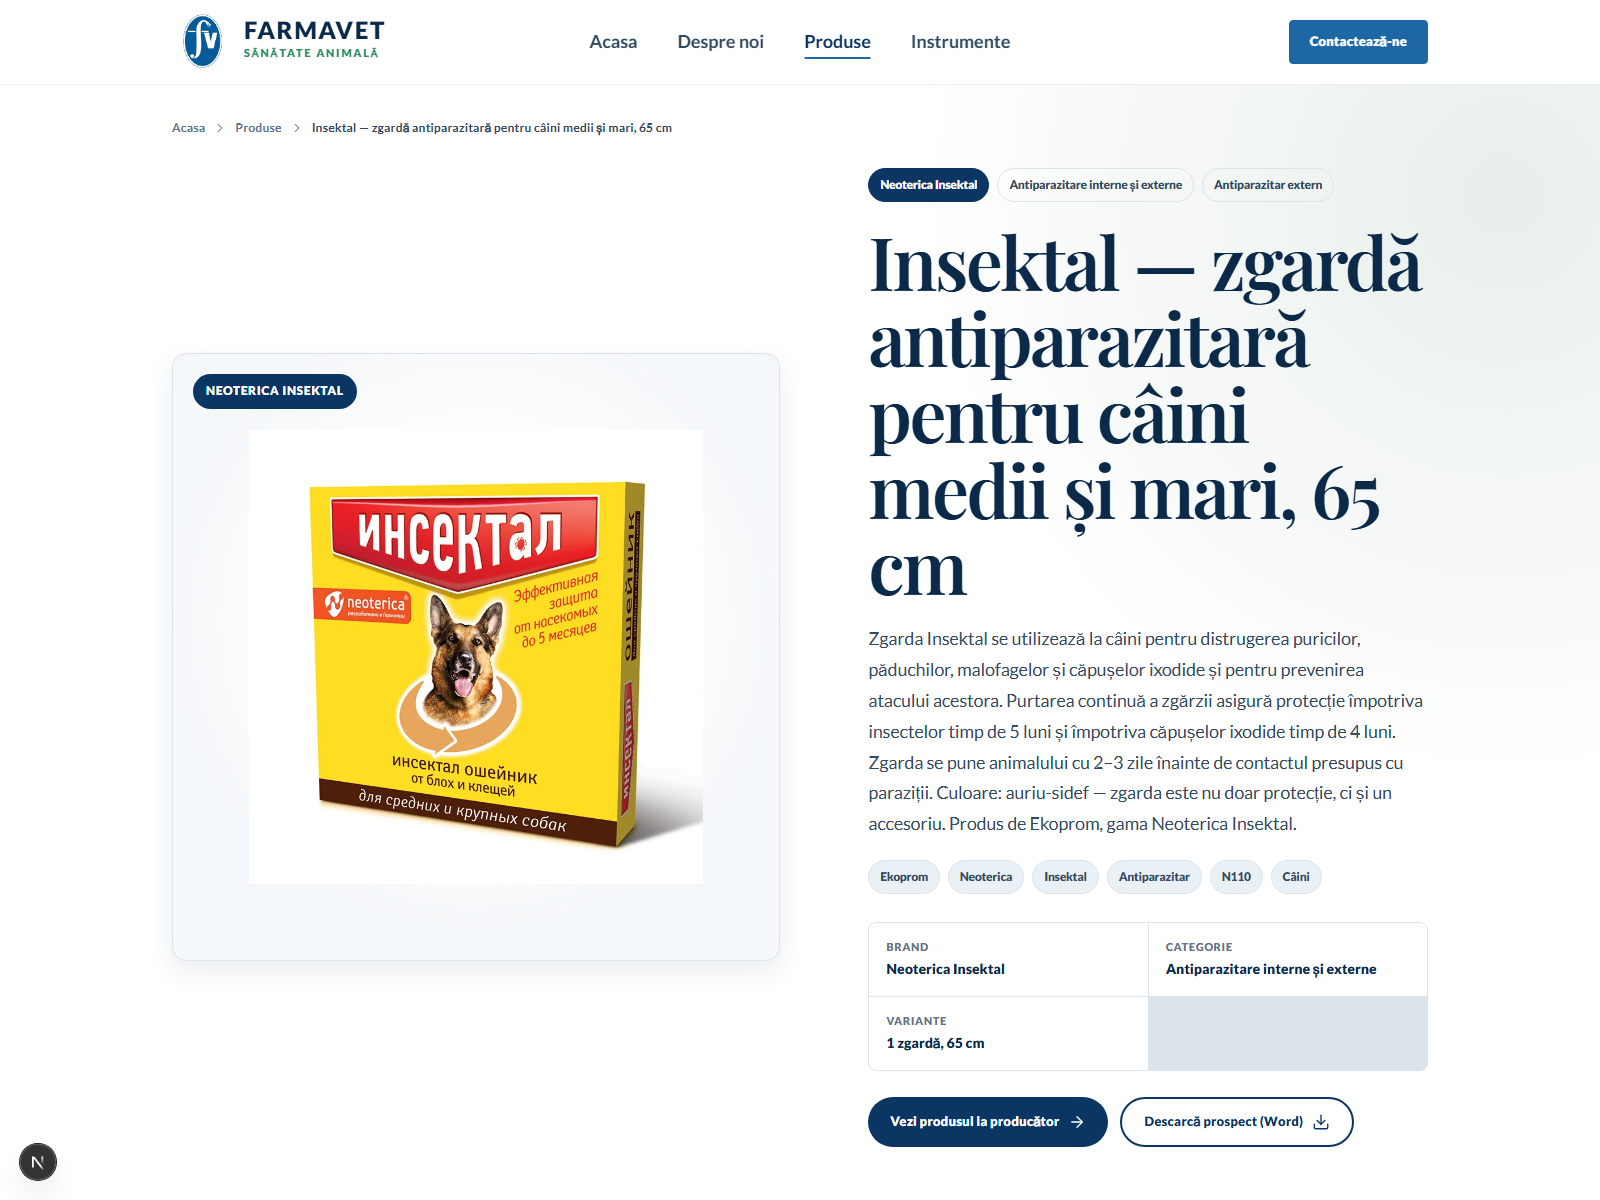
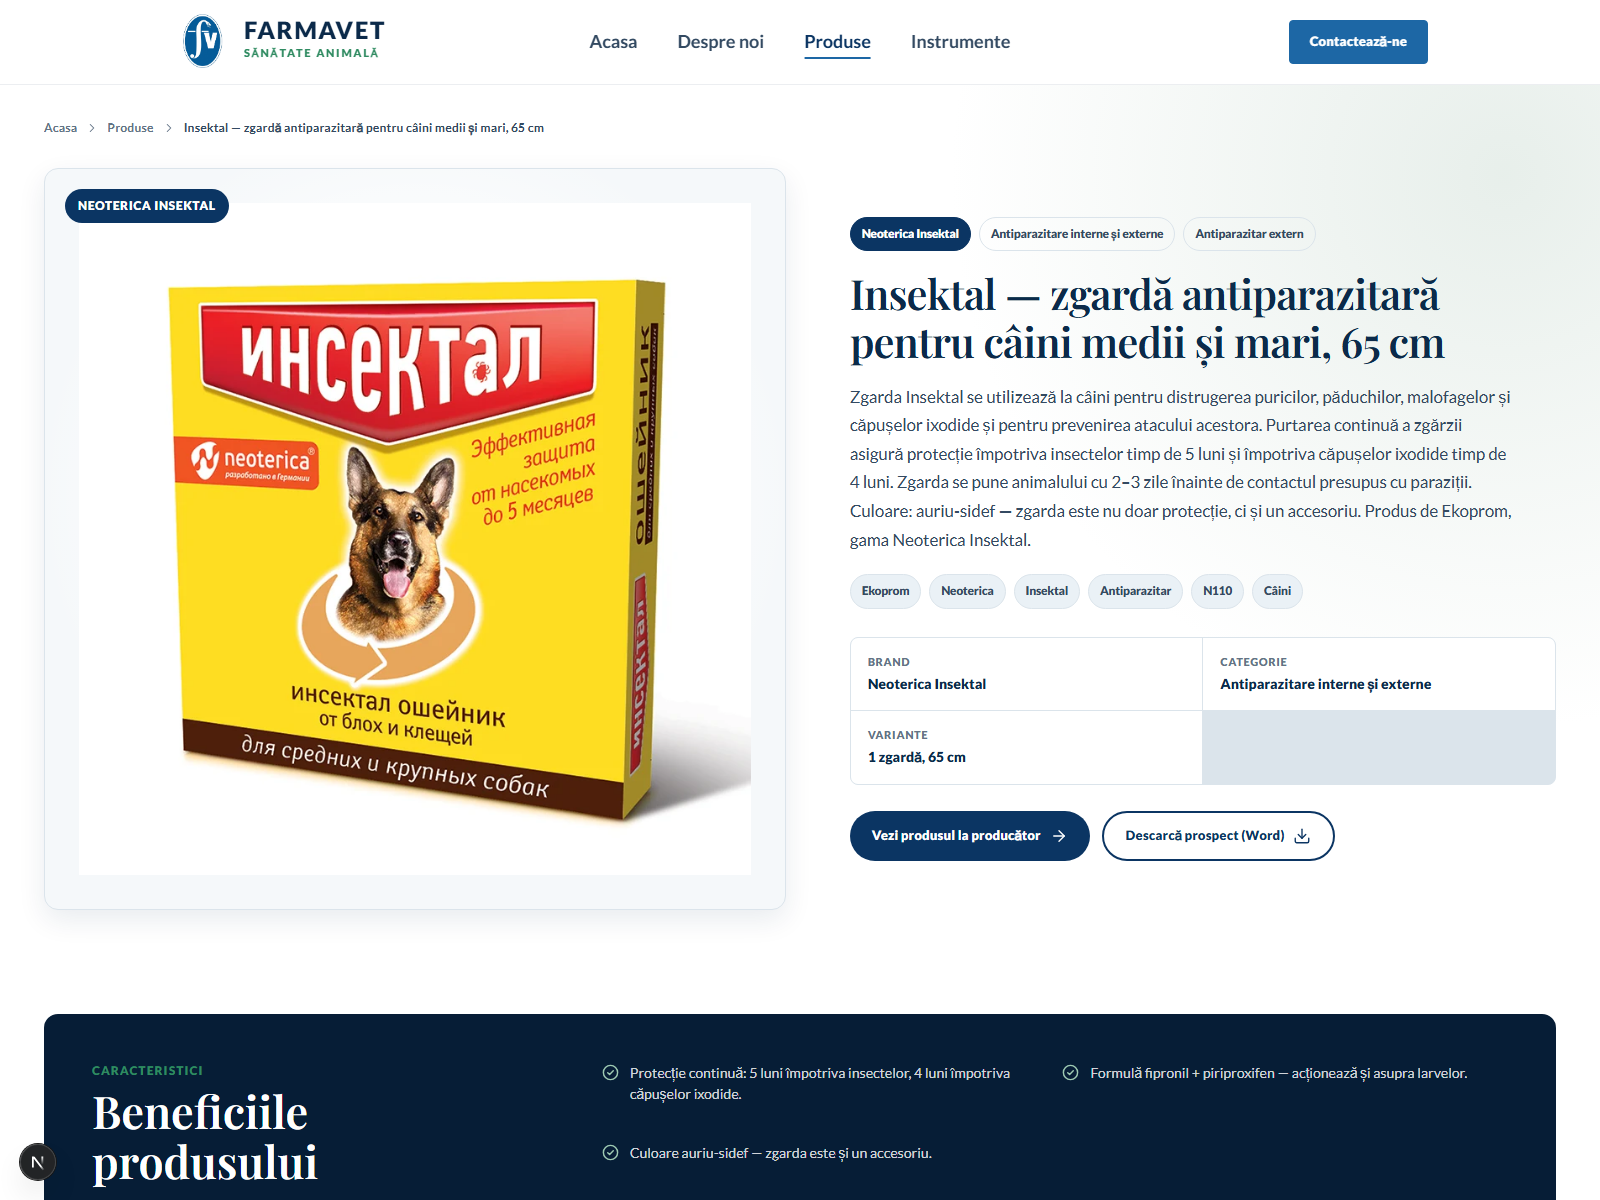
Redesign pagina produsului: continut pe toata latimea, imagine mai mare, titlu/descriere echilibrate, tranzitie discreta la navigare

diff --git a/src/app/produse/[brand]/[slug]/ProductDetail.module.css b/src/app/produse/[brand]/[slug]/ProductDetail.module.css
@@ -5,6 +5,13 @@
     var(--background);
 }
 
+/* Conținut pe toată lățimea ecranului, nu doar centrat. */
+.pageContainer {
+  width: 100%;
+  margin-inline: auto;
+  padding-inline: clamp(18px, 3vw, 44px);
+}
+
 .breadcrumbs {
   display: flex;
   align-items: center;
@@ -39,9 +46,11 @@
 
 .hero {
   display: grid;
-  grid-template-columns: minmax(0, 1fr) minmax(0, 0.92fr);
-  gap: clamp(38px, 6vw, 88px);
+  grid-template-columns: minmax(0, 1.05fr) minmax(0, 1fr);
+  gap: clamp(30px, 4vw, 64px);
   align-items: center;
+  max-width: 1680px;
+  margin-inline: auto;
 }
 
 .imagePanel {
@@ -62,7 +71,7 @@
 
 .mainImage img {
   object-fit: contain;
-  padding: clamp(30px, 5vw, 76px);
+  padding: clamp(16px, 2.5vw, 34px);
 }
 
 .imageBrand {
@@ -107,21 +116,20 @@
 }
 
 .heroContent h1 {
-  max-width: 17ch;
-  margin-top: 21px;
+  margin-top: 18px;
   font-family: var(--font-display), Georgia, serif;
-  font-size: clamp(2.35rem, 4.7vw, 4.6rem);
+  font-size: clamp(1.75rem, 1rem + 1.6vw, 2.7rem);
   font-weight: 600;
-  line-height: 1.03;
-  letter-spacing: -0.035em;
+  line-height: 1.15;
+  letter-spacing: -0.02em;
 }
 
 .description {
-  max-width: 65ch;
-  margin-top: 22px;
+  margin-top: 18px;
+  max-width: 68ch;
   color: var(--color-muted-strong);
-  font-size: clamp(1rem, 1.3vw, 1.1rem);
-  line-height: 1.75;
+  font-size: clamp(0.95rem, 0.85rem + 0.3vw, 1.05rem);
+  line-height: 1.7;
 }
 
 .description p {
@@ -231,6 +239,47 @@
   height: 18px;
 }
 
+/* Tranziție discretă la deschiderea/schimbarea produsului (client-side). */
+.hero,
+.highlights,
+.information,
+.ingredients,
+.gallery {
+  transition: opacity 0.24s var(--ease-out), transform 0.24s var(--ease-out);
+}
+
+@starting-style {
+  .hero,
+  .highlights,
+  .information,
+  .ingredients,
+  .gallery {
+    opacity: 0;
+    transform: translateY(10px);
+  }
+}
+
+@media (prefers-reduced-motion: reduce) {
+  .hero,
+  .highlights,
+  .information,
+  .ingredients,
+  .gallery {
+    transition: opacity 0.2s ease;
+  }
+
+  @starting-style {
+    .hero,
+    .highlights,
+    .information,
+    .ingredients,
+    .gallery {
+      opacity: 0;
+      transform: none;
+    }
+  }
+}
+
 .highlights {
   display: grid;
   grid-template-columns: minmax(220px, 0.65fr) minmax(0, 1.35fr);
@@ -326,6 +375,10 @@
   color: var(--color-muted-strong);
   line-height: 1.75;
   white-space: pre-line;
+}
+
+.infoCard > p {
+  max-width: 150ch;
 }
 
 .productTextGroups {
@@ -499,6 +552,7 @@
 
   .imagePanel {
     max-width: 720px;
+    margin-inline: auto;
   }
 
   .heroContent h1 {
@@ -528,7 +582,7 @@
   }
 
   .mainImage img {
-    padding: 30px;
+    padding: clamp(14px, 4vw, 24px);
   }
 
   .facts,

diff --git a/src/app/produse/[brand]/[slug]/page.tsx b/src/app/produse/[brand]/[slug]/page.tsx
@@ -77,7 +77,7 @@ export default async function ProductPage({ params }: ProductPageProps) {
     <>
       <Navbar activeItem="products" />
       <main id="main" className={styles.page}>
-        <div className="container">
+        <div className={styles.pageContainer}>
           <nav className={styles.breadcrumbs} aria-label="Fir de navigare">
             <Link href="/">Acasa</Link>
             <ChevronRightIcon className={styles.breadcrumbIcon} />

diff --git a/src/app/globals.css b/src/app/globals.css
@@ -33,6 +33,8 @@
 
   --nav-height: 84px;
   --section-space: clamp(72px, 8vw, 112px);
+
+  --ease-out: cubic-bezier(0.23, 1, 0.32, 1);
 }
 
 * {
@@ -112,7 +114,7 @@ textarea {
   transform: translateY(26px) scale(0.985);
   transition:
     opacity 0.5s ease,
-    transform 0.75s cubic-bezier(0.23, 1, 0.32, 1);
+    transform 0.75s var(--ease-out);
   transition-delay: var(--reveal-delay, 0ms);
 }
 
